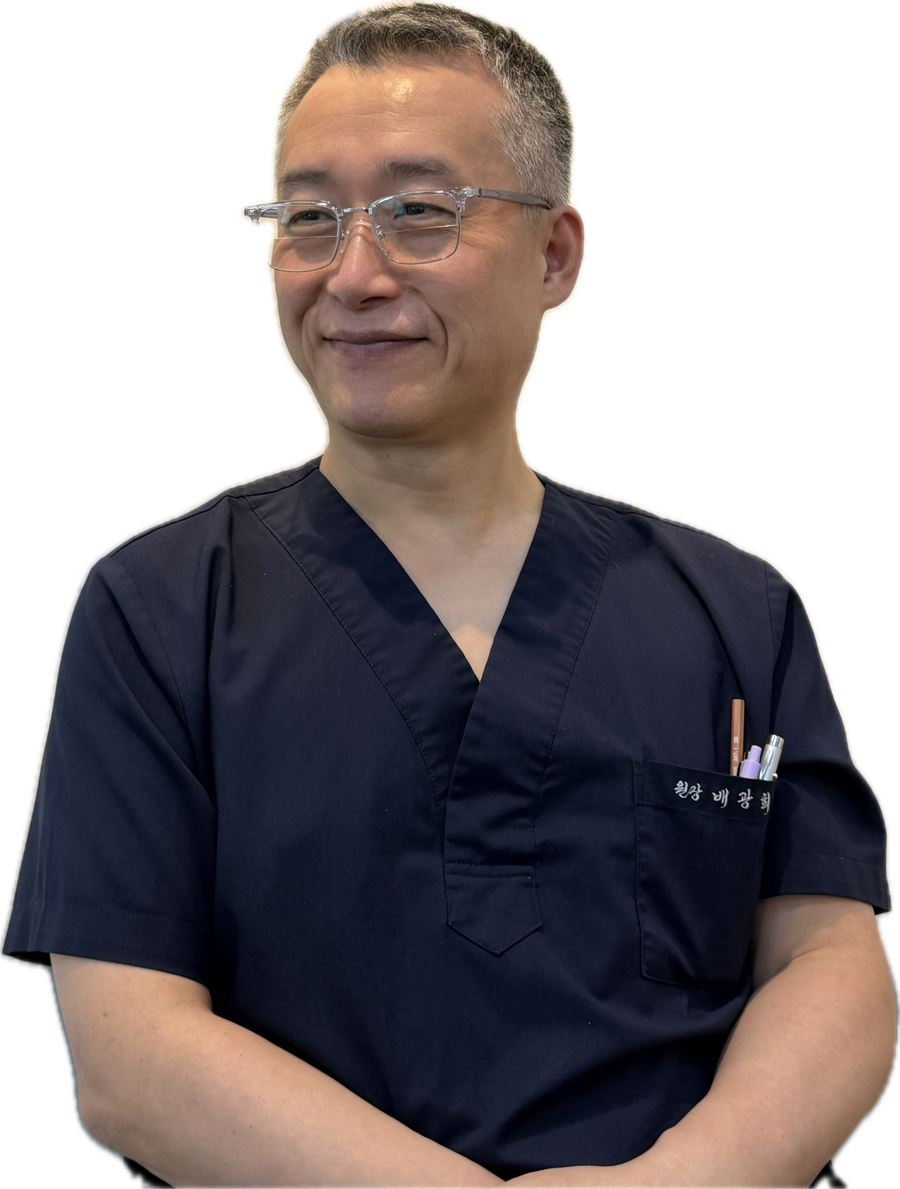
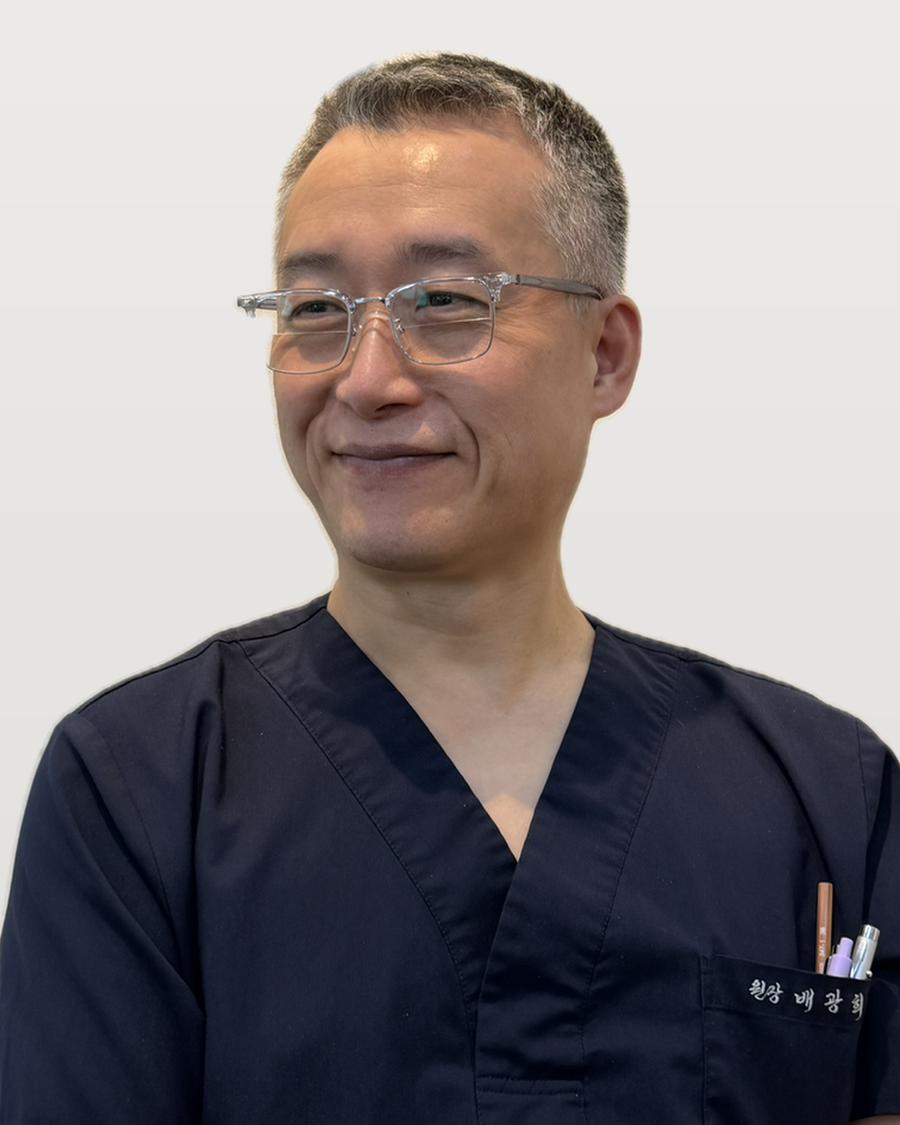
[디자인] 원장 사진 3종에 스튜디오 배경 합성·배광희 원장 동일 규격 적용
- 세 원장 사진에 참고 시안과 같은 밝은 웜그레이 스튜디오 배경을 입혀 배경 통일
- 배광희 원장 사진도 동일 규격(4:5, 머리 위 여백 7%, 인물 크기 통일)으로 재컷팅
- 불투명 사진에 맞춰 인사말 프레임은 가득 채움, 모바일 1:1 프레임은 상단 기준 크롭

diff --git a/index.html b/index.html
@@ -745,7 +745,7 @@ section { padding: 96px 28px; }
 /* 병원장 프로필 */
 .doctor-profile { align-items: center; margin-bottom: 32px; }
 .dp-photo { position: relative; border-radius: var(--r-lg); background: linear-gradient(140deg, var(--sky-pale) 0%, var(--mint-pale) 100%); aspect-ratio: 4/5; display: flex; align-items: flex-end; justify-content: center; overflow: hidden; box-shadow: var(--shadow-sm); border: 1px solid var(--border); }
-.dp-photo img { width: 90%; max-width: 400px; height: auto; display: block; filter: drop-shadow(0 14px 28px rgba(61,137,189,0.20)); }
+.dp-photo img { width: 100%; height: 100%; object-fit: cover; display: block; }
 .dp-body { padding: 4px 0; }
 .dp-role { display: inline-block; font-size: 0.8rem; font-weight: 500; color: var(--sky2); background: var(--sky-pale); border-radius: var(--r-pill); padding: 5px 15px; margin-bottom: 18px; }
 .dp-desc { font-size: 0.9rem; color: var(--text-mid); line-height: 1.9; }
@@ -955,6 +955,8 @@ section { padding: 96px 28px; }
   .doc-cards { gap: 18px; }
   .doc-card { grid-template-columns: 1fr; }
   .doc-photo { aspect-ratio: 1/1; border-right: none; border-bottom: 1px solid var(--border2); }
+  /* 사진이 불투명(스튜디오 배경 내장)이라 1:1 프레임에서는 상단 기준으로 크롭한다 */
+  .doc-photo img { object-fit: cover; object-position: center top; }
   .doc-info { padding: 24px 22px 26px; }
   .doc-name { font-size: 1.45rem; }
   .photo-grid { grid-template-columns: repeat(2, 1fr); gap: 12px; }
